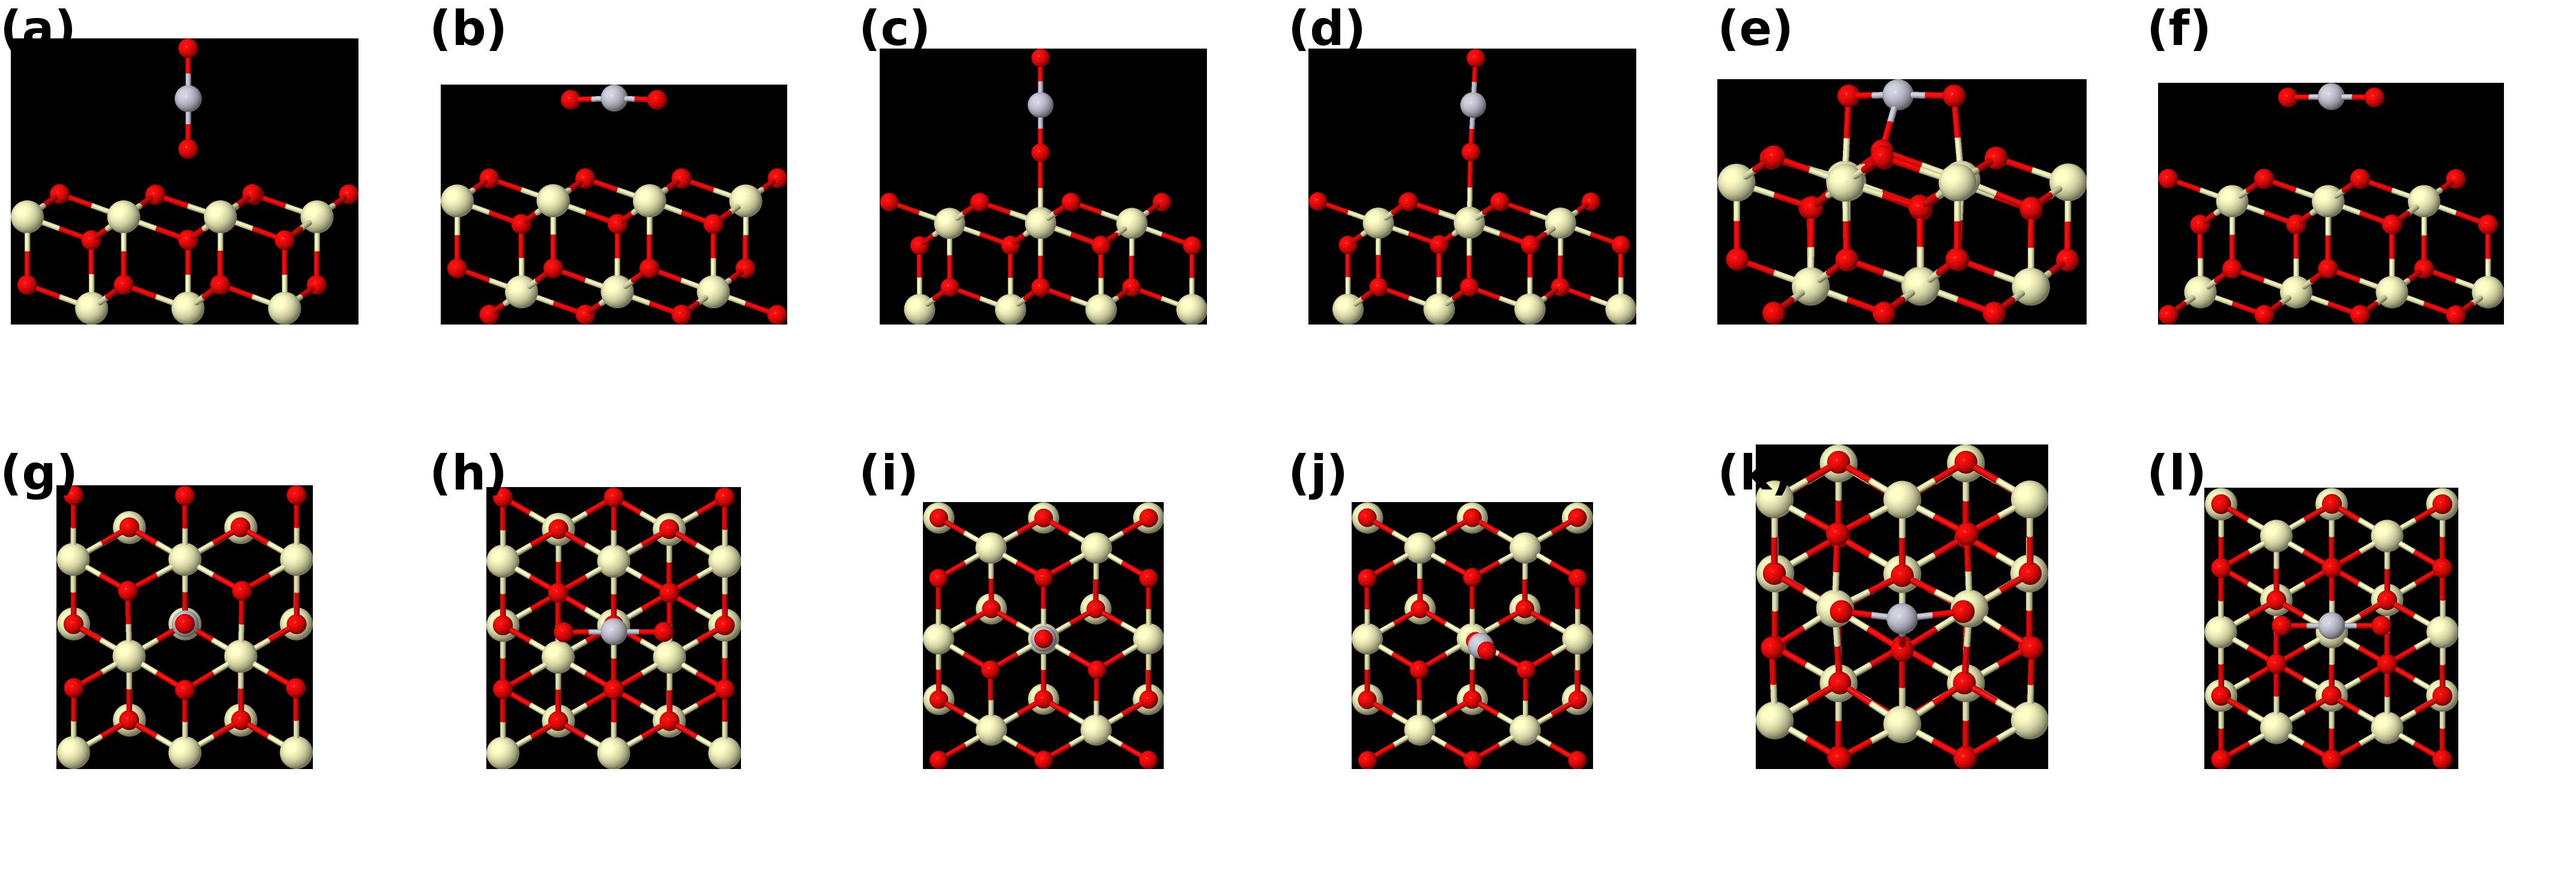
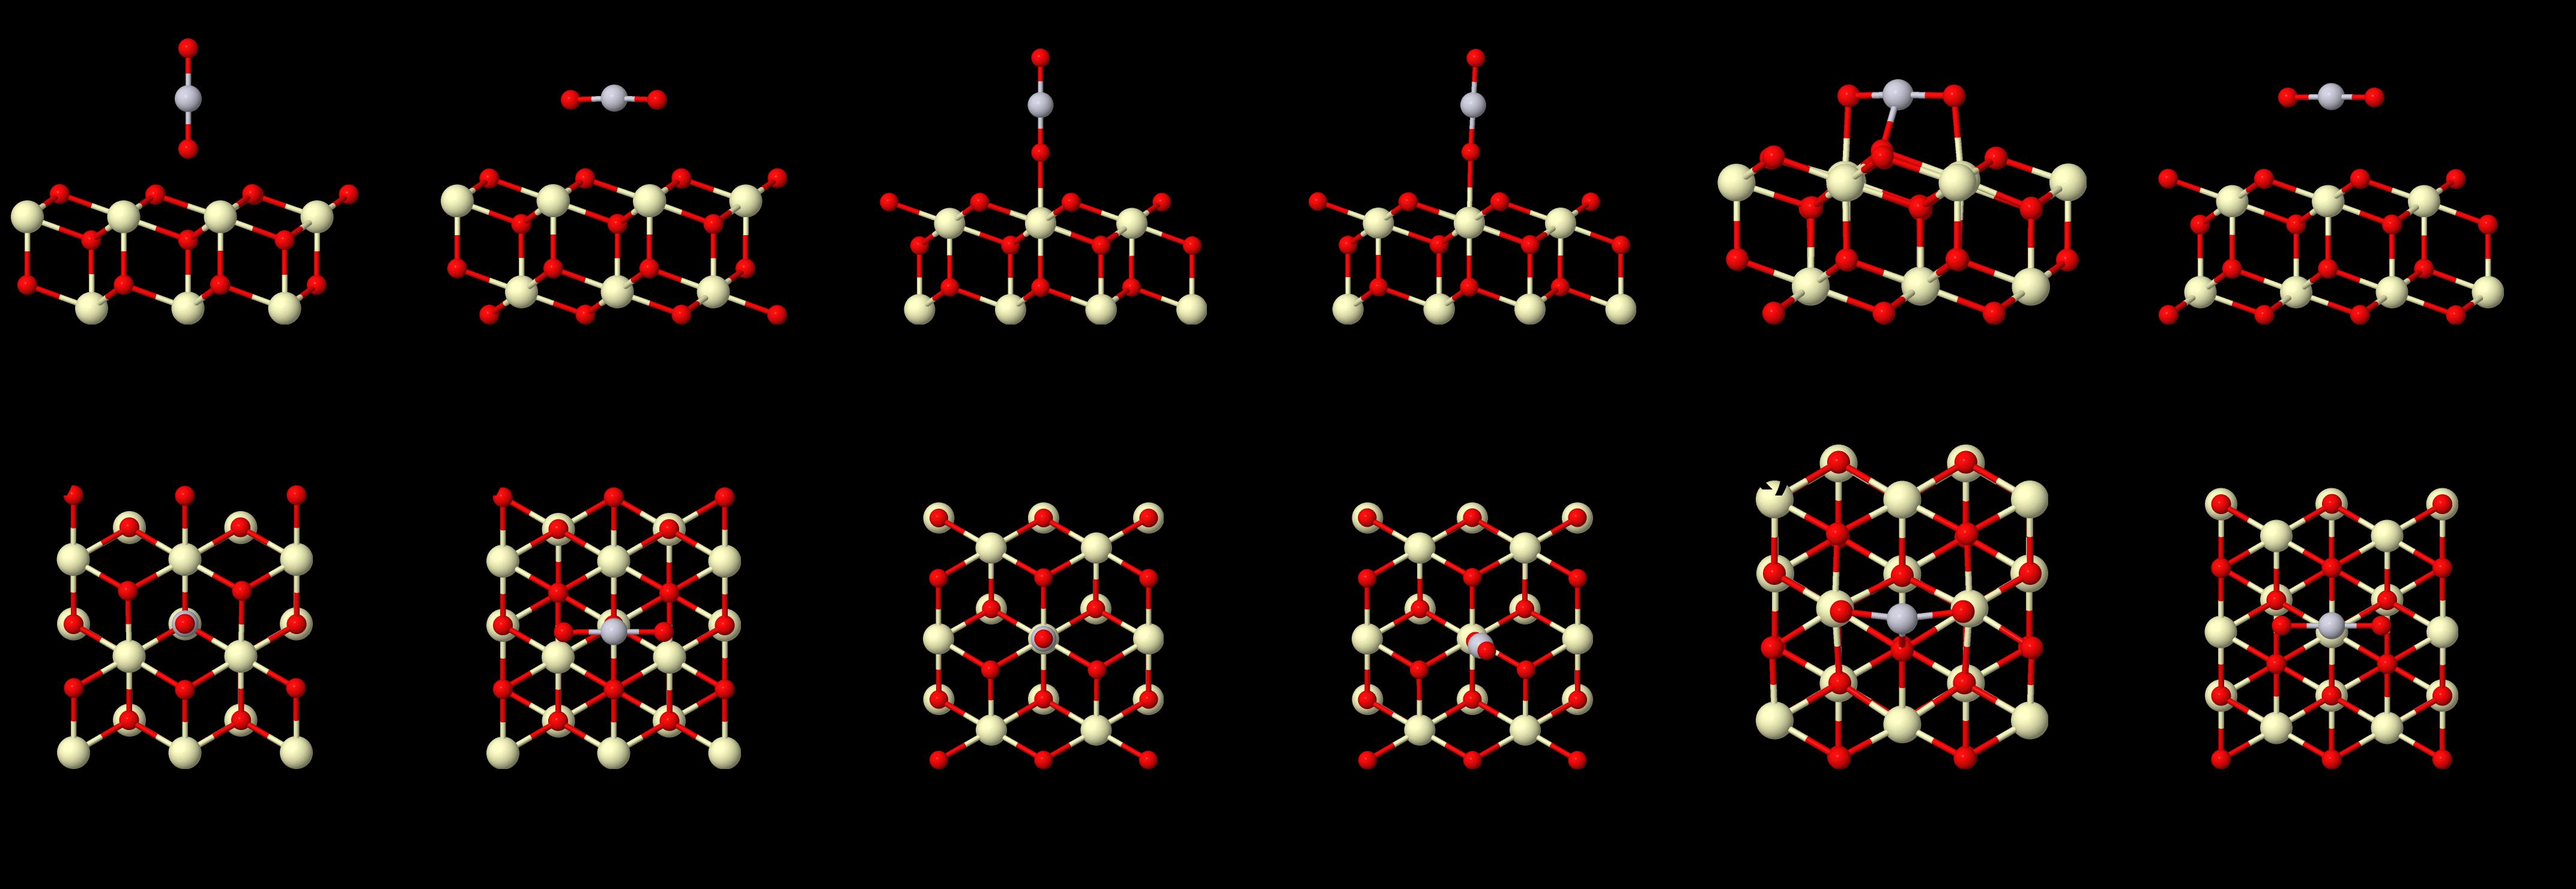
change merge example

diff --git a/examples/generate_images.py b/examples/generate_images.py
@@ -11,9 +11,9 @@ font2 = ImageFont.truetype(
 	"/usr/share/fonts/truetype/ttf-dejavu/DejaVuSans-Bold.ttf",10)
 #merge
 for i in range(1, 7):
-	img = Image.new('RGB', [100 + i*10, 100], (255, 255, 255))
+	img = Image.new('RGB', [100, 100 + i*10], (255/i, 255/(7-i), 255))
 	draw = ImageDraw.Draw(img)
-	draw.text((25 + i*5, 25),"{0}".format(i),(120,20,20), font = font1)
+	draw.text((25 , 25),"{0}".format(i),(120,20,20), font = font1)
 	img.save('{0}.jpg'.format(i))
 	os.system('mv {0}.jpg merge'.format(i))
 

diff --git a/examples/crop_merge/crop_merge.py b/examples/crop_merge/crop_merge.py
@@ -19,7 +19,7 @@ arrage = [['s_o_1.png', 's_pt_1.png', 't_o_1.png', 'to_o_1.png', 'to_pt_1.png', 
           ['s_o_2.png', 's_pt_2.png', 't_o_2.png', 'to_o_2.png', 'to_pt_2.png', 't_pt_2.png']]
 interval = [200, 100]
 # mode, bc: bottom, center; 
-merge.mergeImages(arrage, interval, mode='bc', background = 'w')
+merge.mergeImages(arrage, interval, mode='bc', background = 'b')
 font = ImageFont.truetype(
 		"/usr/share/fonts/truetype/ttf-dejavu/DejaVuSans-Bold.ttf",80)
 merge.addLabel('a', font)

diff --git a/examples/merge/merge.py b/examples/merge/merge.py
@@ -10,8 +10,8 @@ line
 4.jpg & 5.jpg & 6.jpg \\
 line
 '''
-arrage = [['1.jpg', '2.jpg', '3.jpg'], 
-          ['4.jpg', '5.jpg', '6.jpg']]
-interval = [5, 5]
+arrage = [['1.jpg', '3.jpg', '5.jpg'], 
+          ['2.jpg', '4.jpg', '6.jpg']]
+interval = [15, 15]
 pyim.mergeImages(arrage, interval, mode='bc')
 pyim.saveImages()

diff --git a/test01.py b/test01.py
@@ -1,0 +1,10 @@
+from numpy import abs, exp
+
+eps = 0.0001
+
+xold = 1.0
+xnew = 2.0
+while abs(xnew - xold) > eps:
+	xold = xnew
+	xnew = 1./(1 + exp(xold))
+	print(xnew)

diff --git a/README.md b/README.md
@@ -22,7 +22,7 @@ A Python module for image processing: merge, crop.
 >>> pyim.scanImages()
 >>> arrage = [['1.jpg', '3.jpg', '5.jpg'], 
 ...           ['2.jpg', '4.jpg', '6.jpg']]
->>> interval = [5, 5]
+>>> interval = [15, 15]
 >>> pyim.mergeImages(arrage, interval)
 >>> pyim.saveImages()
 ```
